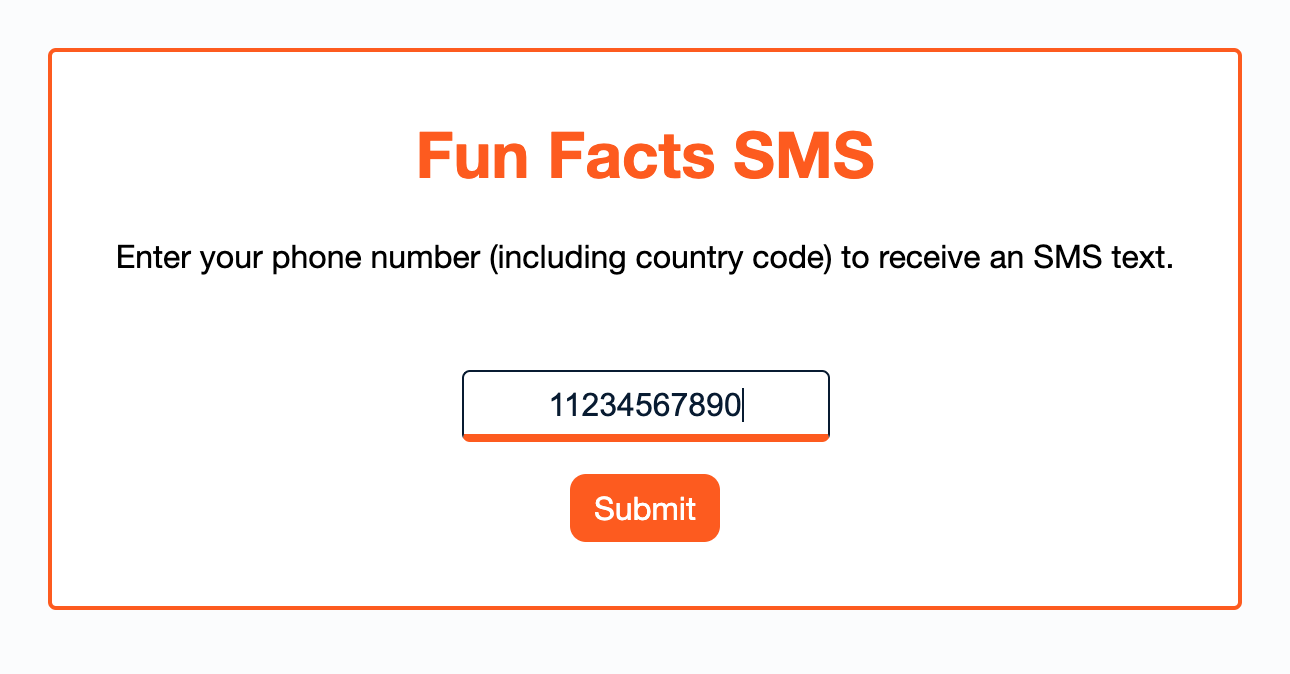
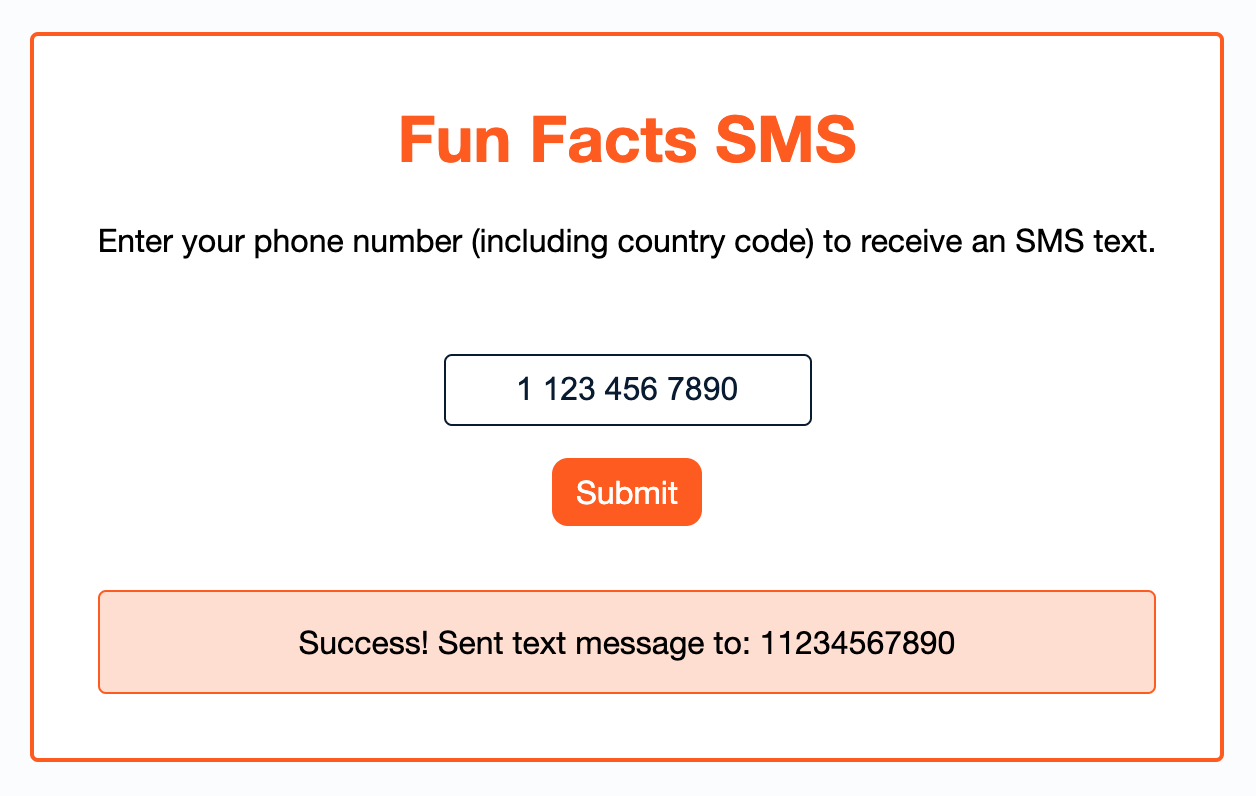
feat: adds success message to UI

Changed region(s): [[0.0, 0.0312, 0.9936, 0.9659], [0.3416, 0.4362, 0.6521, 0.4985]]

diff --git a/public/script.js b/public/script.js
@@ -1,5 +1,5 @@
 (function () {
-  console.log('hey');
+  const resultContainer = document.querySelector('#result');
 
   const submitPhoneNumberForm = (e) => {
     e.preventDefault();
@@ -12,11 +12,13 @@
 
     fetch(`api/send-sms/${phoneNumber}`)
       .then((response) => response.json())
-      .then((data) => {
-        console.log('Success:', data);
+      .then(() => {
+        resultContainer.textContent = `Success! Sent text message to: ${phoneNumber}`;
+        resultContainer.classList.remove('hidden');
       })
-      .catch((error) => {
-        console.error('Error:', error);
+      .catch(() => {
+        resultContainer.textContent = `Error. Unable to send text message to: ${phoneNumber}`;
+        resultContainer.classList.remove('hidden');
       });
   };
 

diff --git a/public/style.css b/public/style.css
@@ -116,3 +116,16 @@ button:hover::before {
   height: 1px;
   overflow: hidden;
 }
+
+.hidden {
+  display: none;
+}
+
+#result {
+  background: rgb(255, 90, 0, 0.2);
+  padding: 1rem;
+  border: solid 1px rgb(255, 90, 0);
+  border-radius: 0.25rem;
+  width: 100%;
+  margin-top: 2rem;
+}

diff --git a/public/index.html b/public/index.html
@@ -29,6 +29,7 @@
         />
         <button type="submit">Submit</button>
       </form>
+      <div id="result" class="hidden"></div>
     </main>
     <script src="./script.js" type="text/javascript"></script>
   </body>
